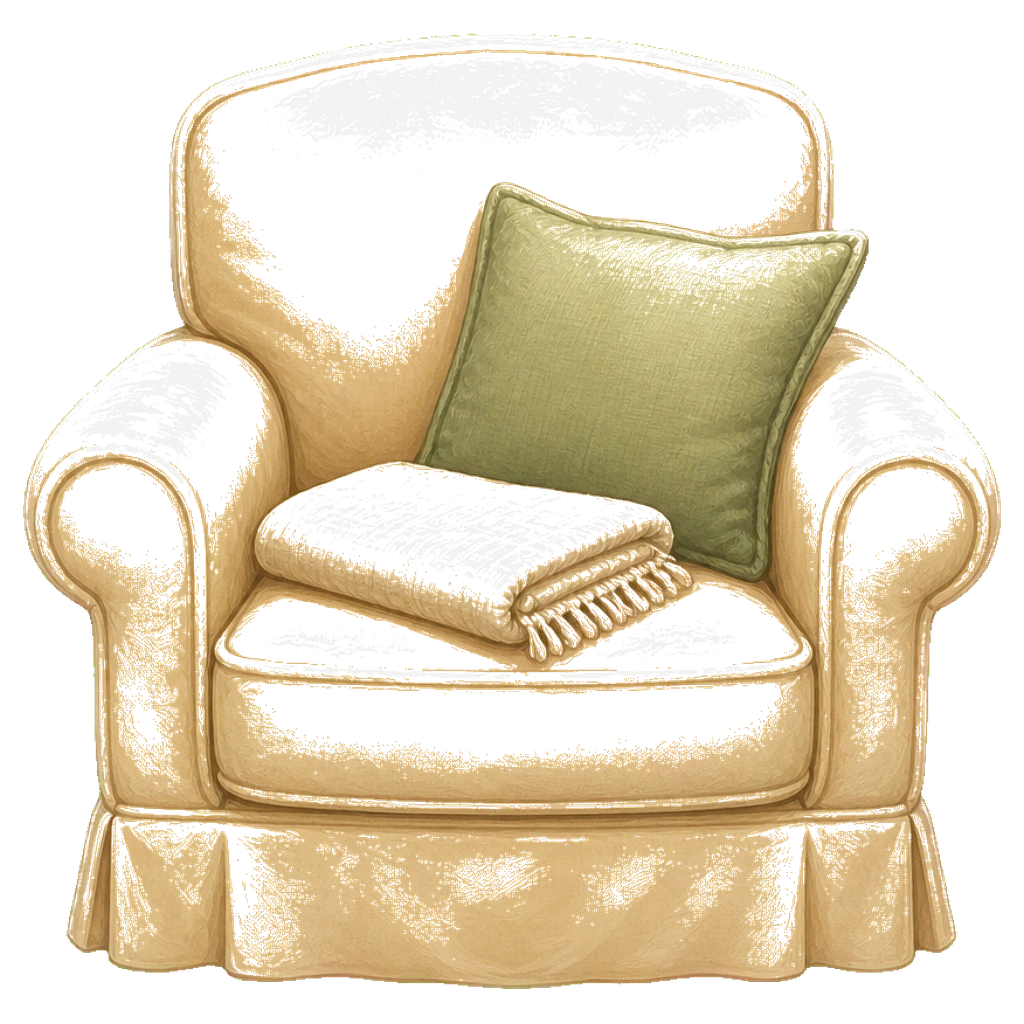
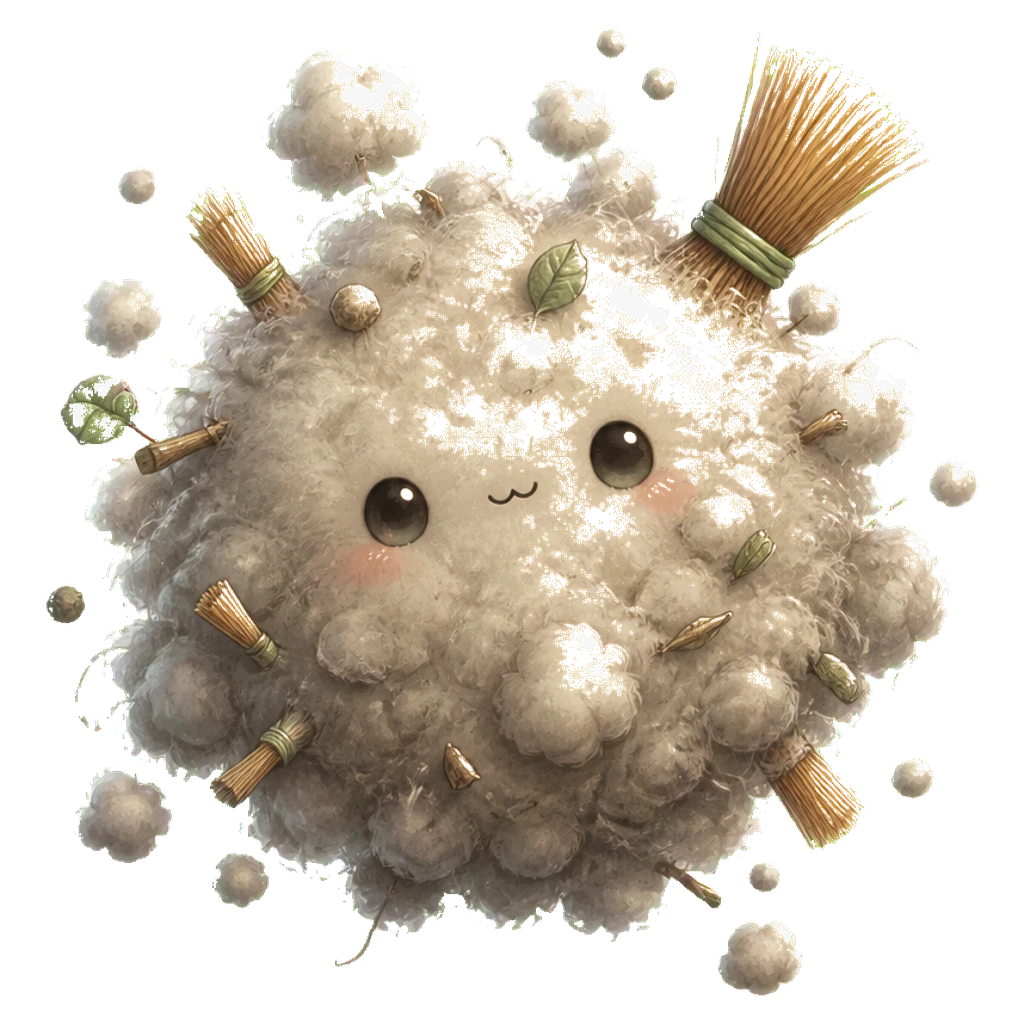
fix(cozy): dust monster obstacle instead of empty chair
Cozy season-1 помеха is now a household dust-bunny cutout; canon for obstacles shifts to dirt and chores, not empty furniture.

diff --git a/src/game/assetBase.ts b/src/game/assetBase.ts
@@ -3,7 +3,7 @@
 export const GAME_ASSET_BASE_PATH = '/game-assets';
 
 /** Bump when replacing public assets so browsers reload */
-export const GAME_ASSET_VERSION = '60';
+export const GAME_ASSET_VERSION = '61';
 
 export function gameAsset(path: string): string {
   return `${GAME_ASSET_BASE_PATH}/${path}?v=${GAME_ASSET_VERSION}`;

diff --git a/docs/wiki/13-art-backlog.md b/docs/wiki/13-art-backlog.md
@@ -286,7 +286,7 @@ Runtime folders already exist under `public/game-assets/themes/cozy/` (avatars, 
 |--------------|-----|---------------|--------|--------|
 | `cozy-season-reward-01-hearth-lantern` | `SeasonDashboardSummary` banner | `themes/cozy/artifacts/season-01-hearth-lantern.webp` | reward-banner | **in-app** (2026-08-10) |
 | `cozy-home-room-stage-01` | `BaseDashboardSummary` banner (+ compact thumb) | `themes/cozy/home/interior/room-stage-01.webp` | reward-banner | **in-app** (2026-08-10) — канон укрытия = комната дома |
-| `cozy-obstacle-01-empty-day` | season boss compact («Главная помеха») | `themes/cozy/bosses/season-obstacle-01-empty-day.webp` | boss-compact cutout | **in-app** (2026-08-10) |
+| `cozy-obstacle-01-empty-day` | season boss compact («Главная помеха») | `themes/cozy/bosses/season-obstacle-01-empty-day.webp` | boss-compact cutout | **in-app** (2026-08-10) — пылевой комок / бытовая грязь, не кресло |
 
 **DoD:** обе плашки Кампании показывают webp одного размера; тексты остаются на общем shell. ✅
 
@@ -316,7 +316,11 @@ Only when pets toggle stays useful; otherwise keep SVG placeholder.
 
 ### Batch C5 — Obstacles / weekly threats (P1–P2)
 
-Cozy illustrations for «помехи» (not DF boss clones): season obstacles S01–S05 first, then weekly set. Paths under `themes/cozy/bosses/` and `themes/cozy/mobs/`.
+Cozy «помехи» = **бытовые монстры грязи и дел по дому** (пыль, беспорядок, грязная посуда, незакрытые дела), не DF-боссы и не пустая мебель.
+
+Примеры направления: пылевой комок, лужа на полу, гора белья, липкий перекус-хаос — тёплый cozy-стиль, чуть озорные, не horror.
+
+Paths under `themes/cozy/bosses/` and `themes/cozy/mobs/`. S01 empty-day → dust monster cutout (in-app).
 
 ### Batch C6 — Journey chapter vignettes (P2)
 

diff --git a/docs/wiki/08-release-notes.md b/docs/wiki/08-release-notes.md
@@ -14,7 +14,8 @@
 - **Companions / pets:** Settings → Дополнительные разделы → «Питомцы / спутники» (default off). Companion overlay/chips/selector hidden until enabled. Onboarding no longer asks for a companion (5 steps).
 - Cozy Home UI hidden outside Cozy theme (Dashboard card + `/home` redirect).
 - **20 Body Stages / 5 Avatar Visual Anchors:** Body Stage engine unchanged (1–20). Production art maps via `getAvatarVisualStage` to anchors `01/05/10/15/20` only. Manifest + `validate:avatars` expect five anchors per theme×gender; intermediate body files are not required. Nearest-stage is no longer the production path.
-- **Cozy Art Fill C1 (Dashboard parity):** season reward lantern, home room-stage-01 as camp/shelter, empty-day armchair obstacle cutout; wired via `CozyArtScene` + `cozyCampaignArt`. `GAME_ASSET_VERSION` 60.
+- **Cozy obstacle S01:** replaced empty armchair with dust-bunny household monster cutout (dirt/chores direction for cozy помехи). `GAME_ASSET_VERSION` 61.
+- **Cozy Art Fill C1 (Dashboard parity):** season reward lantern, home room-stage-01 as camp/shelter, empty-day obstacle; wired via `CozyArtScene` + `cozyCampaignArt`.
 - Cozy female avatar anchors **1 / 5 / 10 / 15 / 20** installed from progression sheet (100→90→75→62→50 кг) under `themes/cozy/avatars/female/`; marked `approved`. `GAME_ASSET_VERSION` 59.
 - Cozy male avatar anchors **1 / 5 / 10 / 15 / 20** marked `approved` in `avatarAssetManifest` (files under `themes/cozy/avatars/male/`). Only five anchors are tracked; intermediate body files are out of production scope.
 - Dark Fantasy male visual anchors **1 / 5 / 10 / 15 / 20** installed under `themes/dark-fantasy/avatars/male/` (canonical theme path; legacy `heroes/` kept as same-theme fallback only).
